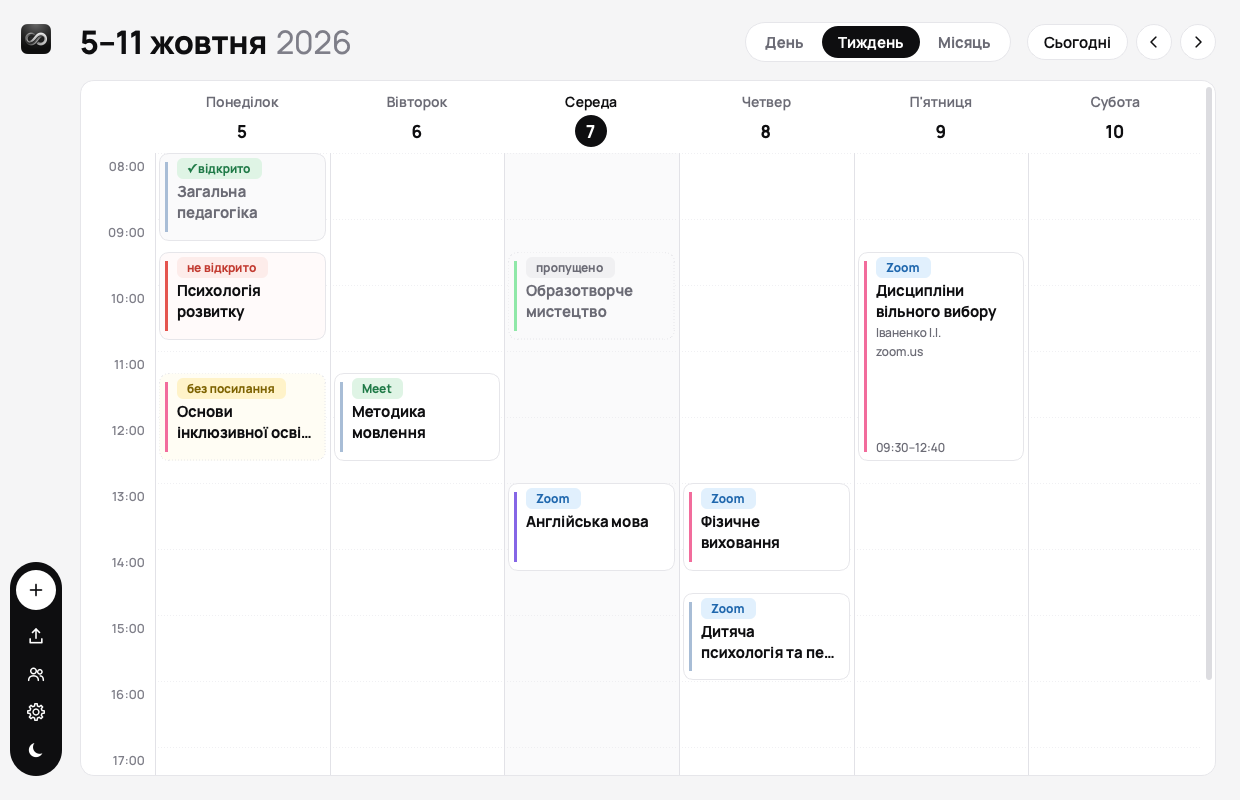
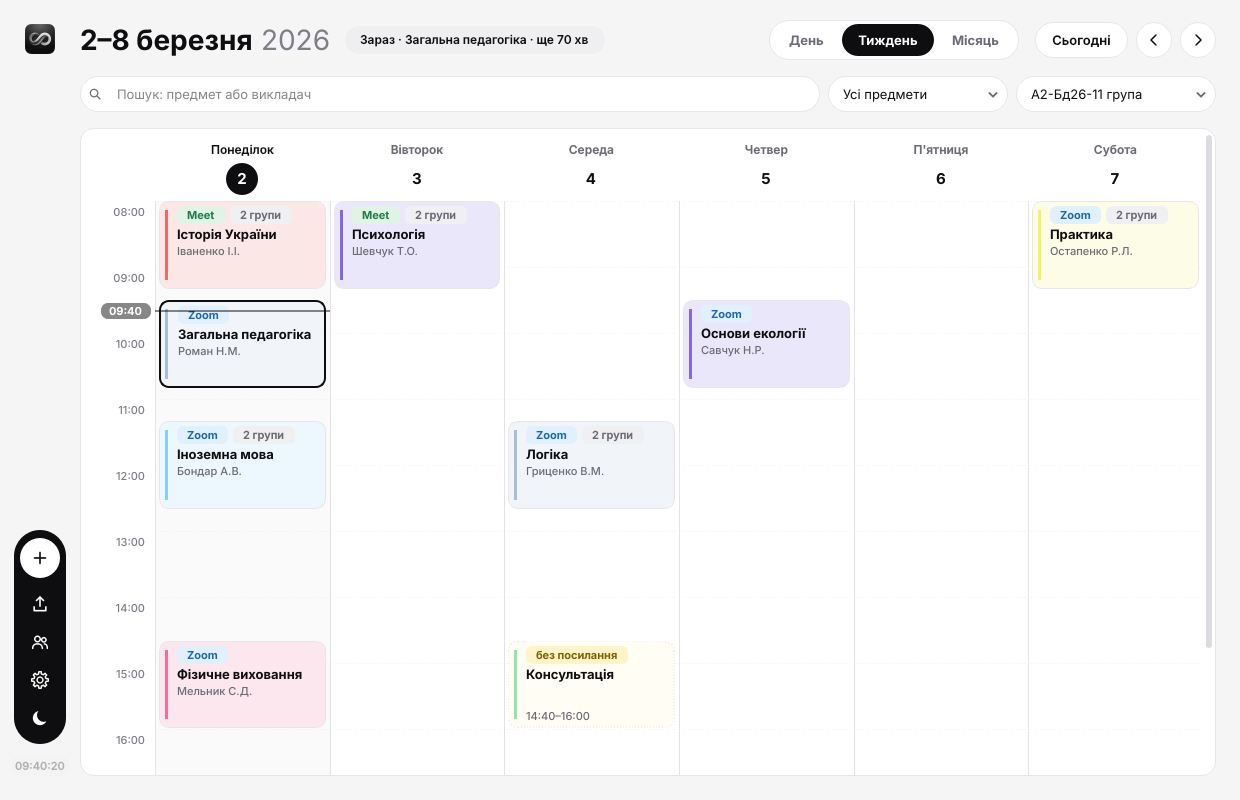
Fix chips overlapping the date in a crowded month day; refresh the README description and pictures; bump to 1.9.1

diff --git a/autopara/ui/month_view.py b/autopara/ui/month_view.py
@@ -35,7 +35,9 @@ from . import icons, transitions
 from .class_card import LESSON_MIME, card_fill, drag_payload, read_drag_payload, subject_color
 
 WEEKS = 6                # a month always occupies six rows, so it never changes height
-MAX_CHIPS = 3            # more than this and the rest are counted, not drawn
+MAX_CHIPS = 3            # more than this and the rest are counted, not drawn (fewer if the tile is short)
+TILE_MARGIN_V = 6        # the tile's own padding, top and bottom
+TILE_SPACING = 2
 CELL_MIN_HEIGHT = 92
 DATE_CIRCLE = 28
 
@@ -163,8 +165,8 @@ class DayTile(QFrame):
         self.setSizePolicy(QSizePolicy.Ignored, QSizePolicy.Expanding)
 
         column = QVBoxLayout(self)
-        column.setContentsMargins(8, 6, 8, 6)
-        column.setSpacing(2)
+        column.setContentsMargins(8, TILE_MARGIN_V, 8, TILE_MARGIN_V)
+        column.setSpacing(TILE_SPACING)
 
         top = QHBoxLayout()
         top.setContentsMargins(0, 0, 0, 0)
@@ -193,16 +195,53 @@ class DayTile(QFrame):
             chip = MonthChip(lesson, status)
             self.chips.append(chip)
             column.addWidget(chip)
-        hidden = len(entries) - MAX_CHIPS
-        if hidden > 0:
-            more = QLabel(f"ще {hidden}")
-            more.setObjectName("MonthMore")
-            column.addWidget(more)
+        # What is not drawn is counted instead. The count is made here and again whenever the tile
+        # is resized, because how many chips fit depends on how tall the tile is.
+        self._beyond_cap = max(0, len(entries) - MAX_CHIPS)
+        self._more = QLabel("")
+        self._more.setObjectName("MonthMore")
+        self._more.hide()
+        column.addWidget(self._more)
         column.addStretch(1)
+        self._fit_chips()
 
         count = len(entries)
         if count:
             self.setToolTip(f"{count} {pairs_word(count)}")
+
+    def _fit_chips(self) -> None:
+        """Draw as many chips as the tile is tall enough for and say "ще N" for the rest.
+
+        A crowded day used to squeeze its chips upward until they sat on top of the date. The date
+        row and the "ще N" line are kept; the chips are what gives way.
+        """
+        total_hidden = self._beyond_cap
+        if self.chips:
+            height = self.height()
+            if height > 2 * TILE_MARGIN_V:  # laid out: before that, every chip fits by definition
+                chip = self.chips[0].sizeHint().height()
+                more = self._more.sizeHint().height()
+                room = height - 2 * TILE_MARGIN_V - DATE_CIRCLE - TILE_SPACING
+                everything = len(self.chips) * chip + (len(self.chips) - 1) * TILE_SPACING
+                if everything <= room and not self._beyond_cap:
+                    shown = len(self.chips)
+                else:
+                    shown = max(0, (room - more - TILE_SPACING + TILE_SPACING) // (chip + TILE_SPACING))
+                    shown = min(shown, len(self.chips))
+            else:
+                shown = len(self.chips)
+            for position, widget in enumerate(self.chips):
+                widget.setVisible(position < shown)
+            total_hidden += len(self.chips) - shown
+        self._more.setText(f"ще {total_hidden}")
+        self._more.setVisible(total_hidden > 0)
+        # Hiding a widget only *schedules* a new layout; until it runs, the chips that stay are
+        # still the squeezed ones from when every chip was competing for the room.
+        self.layout().activate()
+
+    def resizeEvent(self, event):  # noqa: N802 - Qt naming
+        super().resizeEvent(event)
+        self._fit_chips()
 
     def enterEvent(self, event):  # noqa: N802 - Qt naming
         self.add_button.show()

diff --git a/tools/screenshots.py b/tools/screenshots.py
@@ -1,0 +1,100 @@
+#!/usr/bin/env python3
+"""Render the pictures in the README, from the synthetic sample timetable.
+
+    python tools/screenshots.py
+
+Nothing personal is in them: the timetable is ``tests/sample_timetable.py`` (invented subjects,
+teachers and links), and the clock is pinned to a Monday morning so the "now" line, today's date and
+the pill beside the title all show, and the pictures come out the same every time. Runs headless.
+"""
+
+from __future__ import annotations
+
+import datetime as real
+import os
+import sys
+import tempfile
+from pathlib import Path
+
+os.environ.setdefault("QT_QPA_PLATFORM", "offscreen")
+
+ROOT = Path(__file__).resolve().parents[1]
+sys.path.insert(0, str(ROOT))
+
+PINNED = real.datetime(2026, 3, 2, 9, 40, 20)  # a Monday, in the middle of the second class
+SIZE = (1240, 800)
+OUT = ROOT / "docs"
+
+
+def pin_the_clock() -> None:
+    """Make ``today()`` and ``now()`` answer with ``PINNED`` in every module that asks."""
+
+    class Date(real.date):
+        @classmethod
+        def today(cls):
+            return PINNED.date()
+
+    class DateTime(real.datetime):
+        @classmethod
+        def now(cls, tz=None):
+            return PINNED
+
+    from autopara.ui import clock_bar, main_window, week_grid
+
+    for module in (main_window, week_grid):
+        module.date, module.datetime = Date, DateTime
+    clock_bar.datetime = DateTime
+
+
+def main() -> int:
+    from PySide6.QtWidgets import QApplication
+
+    app = QApplication([])
+    from autopara.app import _load_fonts, _smooth_text
+
+    _load_fonts()
+    _smooth_text(app)
+    pin_the_clock()
+
+    from autopara.core import theme
+    from autopara.core.scheduler import Scheduler
+    from autopara.core.storage import Storage
+    from autopara.importer.schedule_parser import parse_file
+    from autopara.ui import transitions
+    from autopara.ui.main_window import MainWindow
+    from tests import sample_timetable
+
+    transitions.ENABLED = False  # a still picture: nothing may be mid-glide
+    work = Path(tempfile.mkdtemp())
+    sample_timetable.build(work / "sample.docx")
+    storage = Storage(work / "demo.db")
+    storage.import_courses(parse_file(str(work / "sample.docx")))
+    course = storage.courses()[0]
+    group = storage.groups(course.id)[0]
+    storage.set_setting("selected_course_id", course.id)
+    storage.set_setting("selected_group_id", group.id)
+
+    shots = (
+        ("week-grid.png", "light", "week"),
+        ("week-grid-dark.png", "dark", "week"),
+        ("month-view.png", "light", "month"),
+    )
+    for name, theme_name, view in shots:
+        theme.apply(app, theme_name)
+        window = MainWindow(storage, Scheduler(storage))
+        window.resize(*SIZE)
+        window.anchor = PINNED.date()
+        storage.set_setting("view_mode", view)
+        window.show()
+        window._refresh_icons()
+        window.reload()
+        app.processEvents()
+        window.grab().save(str(OUT / name))
+        print("wrote", OUT / name)
+        window.close()
+    storage.close()
+    return 0
+
+
+if __name__ == "__main__":
+    sys.exit(main())

diff --git a/tests/test_views.py b/tests/test_views.py
@@ -127,9 +127,9 @@ class TestMonthMaths:
 
 
 class TestMonthView:
-    def render(self, qapp, lessons, statuses=None, first=date(2026, 3, 1), today=MONDAY):
+    def render(self, qapp, lessons, statuses=None, first=date(2026, 3, 1), today=MONDAY, height=700):
         view = MonthView()
-        view.resize(1100, 700)
+        view.resize(1100, height)
         view.render_month(first, lessons, statuses, today)
         view.show()
         qapp.processEvents()
@@ -165,11 +165,43 @@ class TestMonthView:
     def test_a_crowded_day_counts_what_it_does_not_draw(self, qapp):
         crowd = [lesson(n, MONDAY, start_time=f"{8 + n:02d}:00", end_time=f"{9 + n:02d}:00")
                  for n in range(1, MAX_CHIPS + 3)]
-        view = self.render(qapp, crowd)
+        view = self.render(qapp, crowd, height=1000)  # tall enough for the most a tile draws
         tile = self.tile(view, MONDAY)
-        assert len(self.chips(tile)) == MAX_CHIPS
+        shown = [c for c in tile.chips if c.isVisible()]
+        assert len(shown) == MAX_CHIPS
         more = [l.text() for l in tile.findChildren(QLabel) if l.objectName() == "MonthMore"]
         assert more == ["ще 2"]
+
+    def test_a_short_tile_draws_fewer_chips_and_counts_the_rest(self, qapp):
+        crowd = [lesson(n, MONDAY, start_time=f"{8 + n:02d}:00", end_time=f"{9 + n:02d}:00")
+                 for n in range(1, MAX_CHIPS + 3)]
+        view = self.render(qapp, crowd, height=520)
+        tile = self.tile(view, MONDAY)
+        shown = [c for c in tile.chips if c.isVisible()]
+        assert len(shown) < MAX_CHIPS
+        more = next(l for l in tile.findChildren(QLabel) if l.objectName() == "MonthMore")
+        assert more.isVisible() and more.text() == f"ще {len(crowd) - len(shown)}"
+
+    def test_the_chips_never_overlap_the_date(self, qapp):
+        """The bug a crowded Monday showed: chips squeezed upward until they sat on the date."""
+        from autopara.ui.month_view import DATE_CIRCLE
+
+        crowd = [lesson(n, MONDAY, start_time=f"{8 + n:02d}:00", end_time=f"{9 + n:02d}:00")
+                 for n in range(1, MAX_CHIPS + 3)]
+        for height in (420, 520, 700, 1000):
+            view = self.render(qapp, crowd, height=height)
+            tile = self.tile(view, MONDAY)
+            date_bottom = DATE_CIRCLE + 6
+            for chip in tile.chips:
+                if chip.isVisible():
+                    assert chip.geometry().top() >= date_bottom, f"overlap at height {height}"
+                    assert chip.geometry().bottom() <= tile.height(), f"clipped at height {height}"
+
+    def test_a_tile_with_room_hides_nothing(self, qapp):
+        view = self.render(qapp, [lesson(1, MONDAY)], height=1000)
+        tile = self.tile(view, MONDAY)
+        assert all(c.isVisible() for c in tile.chips)
+        assert not any(l.isVisible() for l in tile.findChildren(QLabel) if l.objectName() == "MonthMore")
 
     def test_chips_are_in_time_order(self, qapp):
         late = lesson(1, MONDAY, start_time="15:00", end_time="16:00")

diff --git a/autopara/__init__.py b/autopara/__init__.py
@@ -3,4 +3,4 @@
 # The version the running program reports (to the update check, and in Settings). The installer
 # script is the single source CI reads; ``tests/test_installer.py`` fails if this drifts from it,
 # and `tools/bump_version.py` rewrites both.
-__version__ = "1.9.0"
+__version__ = "1.9.1"

diff --git a/README.md b/README.md
@@ -1,18 +1,37 @@
 # AutoPara — автозапуск пар
 
-A Windows tray app that imports a university timetable from a `.docx`, shows the week as a calendar
-grid, and opens each class's Zoom / Google Meet link in the default browser a minute before it
-starts. **The application's interface is Ukrainian**; this README and the design docs are English,
-for whoever maintains it.
+A Windows and macOS tray app for students. It imports a university timetable from a `.docx`, shows
+it as a day, week or month calendar, and opens each class's Zoom or Google Meet link in your browser
+a minute before the class starts — so all that is left to do is be there. **The application's
+interface is Ukrainian**; this README and the design docs are English, for whoever maintains it.
 
-The interface is a light, friendly "education app" look: white cards on a soft grey canvas, one
-near-black anchor for whatever is active (today's date, the primary button, the "now" line), and
-pastel colour only where it carries meaning — a subject, a status. It has a dark theme that inverts
-the same pair. The chrome is a floating icon pill down the left rather than a toolbar across the
-top, because the week grid is wide and short and a top bar spends the height a calendar is always
-short of.
+- **Opens each class once, on time** — including when the app was closed for a while: a class you
+  missed is never opened behind your back, you are asked.
+- **Day, week and month**, with a search box, a subject filter and a group filter, and a small pill
+  that says what is on or next today.
+- **Editable in place**: click a slot to add a class, drag one to move it (in the week, the day and
+  the month). Moving a class that repeats asks whether to move only that date or the whole series.
+- **One timetable, every group**: import once, switch course and group without importing again.
+- **Light and dark themes**, following the system until you pin one. Windows installer, and macOS
+  disk images for Apple Silicon and Intel.
 
-![week grid](docs/week-grid.png)
+The interface is a light, friendly "education app" look: white cards on a soft grey canvas, each
+subject tinting its own cards so a week reads at a glance, one near-black anchor for whatever is
+active (today's date, the primary button, the "now" line), and pastel colour only where it carries
+meaning — a subject, a status. The dark theme inverts the same pair. The chrome is a floating icon
+pill down the left rather than a toolbar across the top, because the week grid is wide and short
+and a top bar spends the height a calendar is always short of. Moving between periods and views is
+a morph rather than a slide: a class that is on both sides of the change grows from its old shape
+into the new one.
+
+![The week, in the light theme](docs/week-grid.png)
+
+| Dark theme | Month |
+| --- | --- |
+| ![The week, in the dark theme](docs/week-grid-dark.png) | ![The month](docs/month-view.png) |
+
+*The pictures are rendered from an invented sample timetable by `python tools/screenshots.py`; the
+clock in them is pinned to a Monday morning.*
 
 ## Install
 

diff --git a/docs/FRONTEND.md b/docs/FRONTEND.md
@@ -545,6 +545,12 @@ the accent colour was the alternative, and a solid coloured square does not read
   the pointer near the screen's edge) instead of Qt's, and every `QMenu` is made frameless and
   translucent just before it is first shown, so the stylesheet's `border-radius` has something to
   round.
+- **A month tile fits its chips to its height.** A crowded day used to squeeze its chips upward
+  until they sat on top of the date number (a Monday with three classes and "ще 1" showed it in
+  every real timetable). `DayTile._fit_chips` draws as many chips as the tile is tall enough for,
+  counts the rest in "ще N", and calls `layout().activate()` straight after hiding some, because
+  hiding a widget only *schedules* a layout and the chips that stay would otherwise keep the
+  squeezed geometry of the pass in which they were all competing for the room.
 - **A card's slot must not paint.** Two classes that touch within an hour share a grid row, and the
   later one's opaque slot covered the bottom of the earlier card. `#CardSlot` is transparent;
   `tests/test_visual.py` checks the pixels.

diff --git a/docs/HANDOFF.md b/docs/HANDOFF.md
@@ -39,6 +39,10 @@ python tools/bump_version.py --show    # version + release state; --set X.Y.Z to
   checks also run against it, asserting only what holds for any revision and reading the expected
   numbers from the file, so a new revision cannot break them. Without it those variants skip, and
   pytest's header prints which file it used or `NOT FOUND`.
+- **README pictures.** `python tools/screenshots.py` renders `docs/week-grid.png`,
+  `docs/week-grid-dark.png` and `docs/month-view.png` headless from the synthetic sample timetable,
+  with the clock pinned to a Monday morning (so today's date, the "now" line and the pill beside the
+  title all show). Re-run it after any visual change; nothing personal is in the pictures.
 - **Isolated manual run** (does not touch the real profile or the login item):
   `HOME=<tmp> APPDATA=<tmp> python -m autopara --no-rebuild`. A source run with the default `HOME`
   rewrites `~/Library/LaunchAgents/com.autopara.app.plist`.
